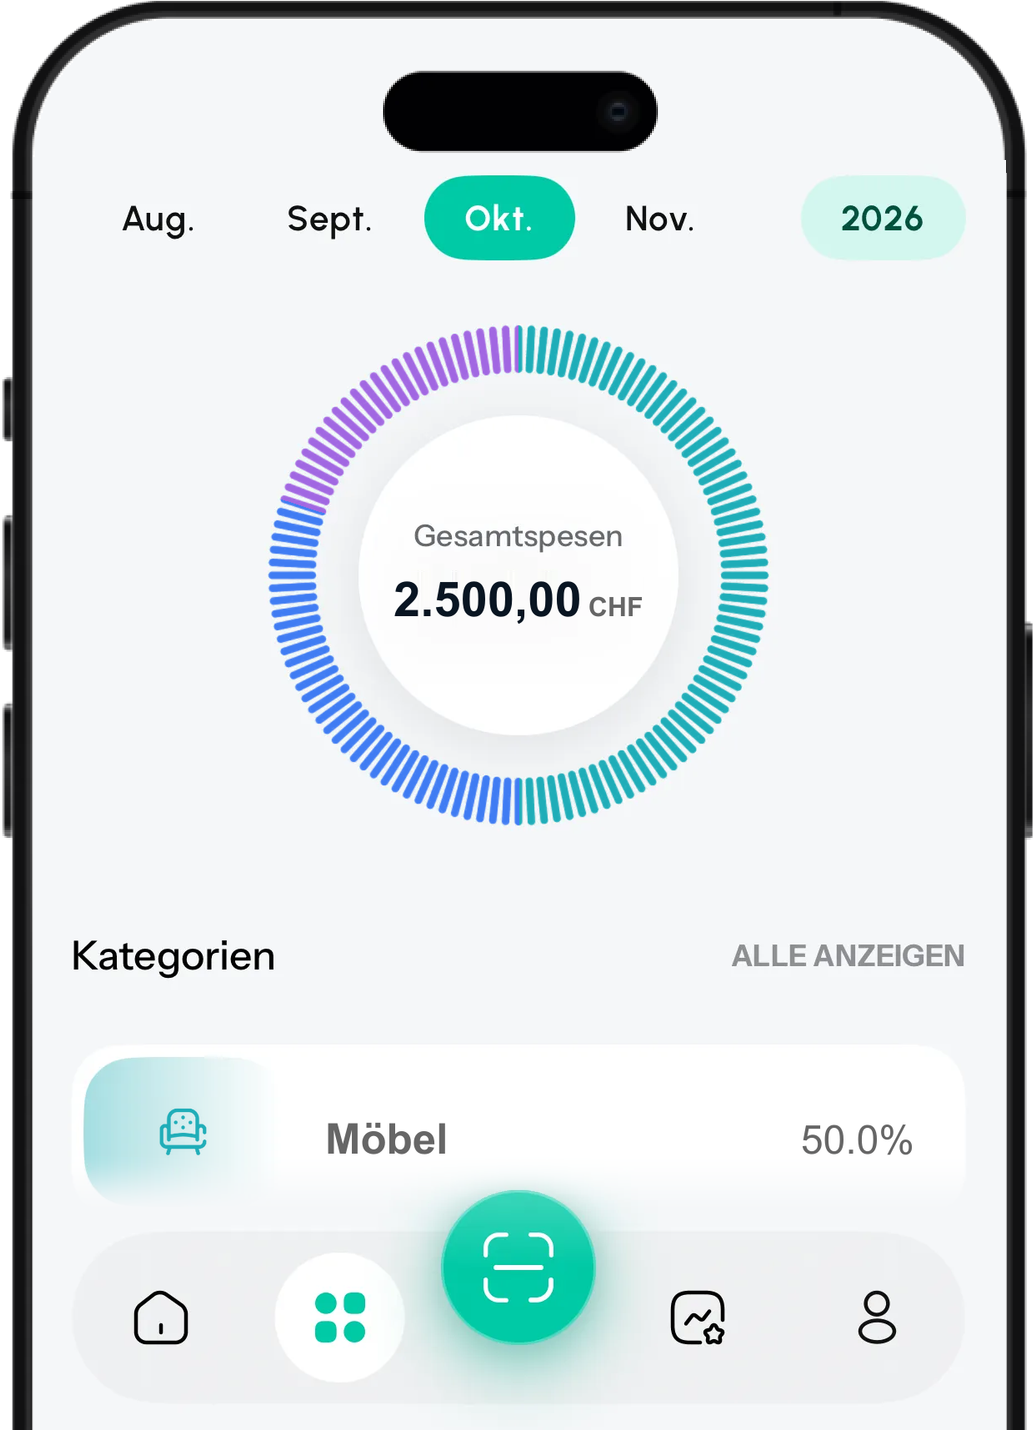
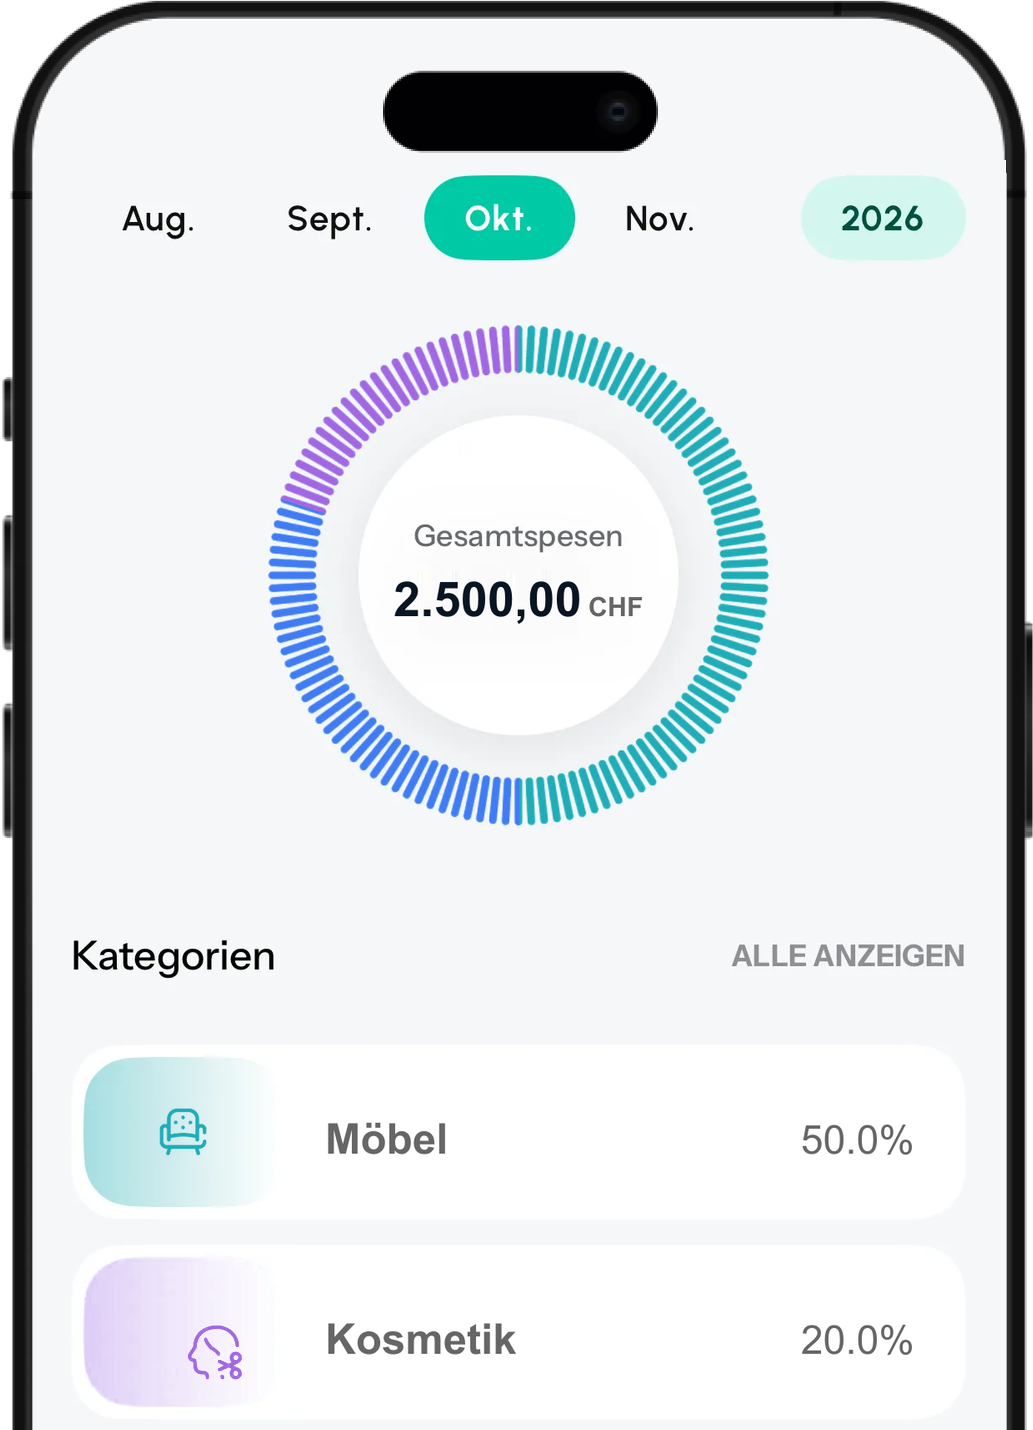
Refine approved homepage cards and phone mockups

diff --git a/src/components/sections/spotlight-section/SpotLightSection.tsx b/src/components/sections/spotlight-section/SpotLightSection.tsx
@@ -2,6 +2,8 @@
 import React from "react";
 import { FadeIn } from "@/components/fade-in/FadeIn";
 import Image from "next/image";
+import Avatar1 from "../../../../public/assets/images/avatar-1.png";
+import Avatar2 from "../../../../public/assets/images/avatar-2.png";
 import ChatSupport from "../../../../public/assets/images/chat-support.png";
 import ChatSupportDE from "../../../../public/assets/images/chat-support-de.png";
 import OrderMockup from "../../../../public/assets/images/order-mockup.png";
@@ -25,13 +27,36 @@ const SpotLightSection = () => {
         </h6>
       </FadeIn>
       <FadeIn className="mt-[60px] grid grid-cols-1 gap-8 max-lg:mx-auto max-lg:max-w-[500px] lg:mt-[100px] lg:grid-cols-3">
-        <div className="flex h-full min-h-[420px] w-full flex-col justify-between rounded-[60px] bg-[#F4F4F4] duration-200 ease-in-out hover:-rotate-1 lg:col-span-2">
-          <div className="px-7 py-7 lg:px-12 lg:py-10">
-            <p className="max-w-[640px] text-[26px] font-semibold leading-[1.35] text-[#111] lg:text-[32px]">
+        <div className="flex h-full min-h-[420px] w-full flex-col justify-between rounded-[60px] bg-[#3F7CF3] duration-200 ease-in-out hover:-rotate-3">
+          <div className="ml-auto mr-9 mt-8 pl-8 lg:mt-16">
+            <p className="text-right text-[24px] font-semibold leading-[1.4] text-white lg:text-[26px]">
+              {t("SpotCard1Title")}
+            </p>
+            <p className="mt-4 text-right text-[16px] leading-[1.5] text-white">
+              {t("SpotCard1Text")}
+            </p>
+          </div>
+          <div className="px-8 pb-8">
+            <div className="flex w-fit items-center space-x-[-10%]">
+              <Image src={Avatar1} alt="" className="h-[50px] w-[50px] object-contain" />
+              <Image src={Avatar2} alt="" className="h-[50px] w-[50px] object-contain" />
+              <Image src={Avatar1} alt="" className="h-[50px] w-[50px] object-contain" />
+              <div className="flex h-[48px] w-[48px] items-center justify-center rounded-full bg-white">
+                <p className="text-[38px] leading-[0] text-[#111]">+</p>
+              </div>
+            </div>
+          </div>
+        </div>
+        <div className="flex h-full min-h-[420px] w-full flex-col items-center gap-6 rounded-[60px] bg-[#F4F4F4] pb-7 pt-8 duration-200 ease-in-out hover:-rotate-3 lg:pt-16">
+          <div className="w-full px-7">
+            <p className="text-[24px] font-semibold leading-[1.4] text-[#111] lg:text-[26px]">
+              {t("SpotCard2Title")}
+            </p>
+            <p className="mt-4 text-[16px] leading-[24px] text-[#111]">
               {t("SpotCard2Support")}
             </p>
           </div>
-          <div className="mx-auto w-full max-w-[600px]">
+          <div className="w-full max-w-[320px]">
             {localActive === "en" ? (
               <Image
                 src={ChatSupport}
